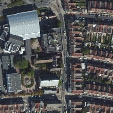
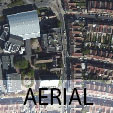
S7 toggle map changes (hovermap and jpg changes)

Changed region(s): [[0.0, 0.6903, 1.0, 1.0]]

diff --git a/src/main/webapp/resources/javascript/hoverMap.js b/src/main/webapp/resources/javascript/hoverMap.js
@@ -102,9 +102,33 @@ function hoverMap(details, postcode){
 			
 			// parent layer
 			var dynamicMSLayer = new esri.layers.ArcGISDynamicMapServiceLayer("http://services.arcgisonline.com/ArcGIS/rest/services/World_Street_Map/MapServer");      
-			map.addLayer(dynamicMSLayer);  
+			var dynamicMSLayer2 = new esri.layers.ArcGISDynamicMapServiceLayer("http://services.arcgisonline.com/ArcGIS/rest/services/World_Imagery/MapServer");      
+			currentLayer = "street"
+			map.addLayer(dynamicMSLayer);   
 			
 			map.setExtent(bbox.expand(1.1)); 
+
+			
+			 on(dom.byId("btnSwap"), "click", function () {  
+	             if (currentLayer == "street")
+	            	 {
+	            	 //changeLayer(dynamicMSLayer2)
+	            	 map.removeLayer(dynamicMSLayer);  
+	            	 map.addLayer(dynamicMSLayer2);
+	            	 //document.getElementById('btnSwap').text == "Street"
+	            	 $("#btnSwap").attr('src','resources/images/street.jpg');
+	            	 currentLayer = "topo"
+	            	 } 
+	             else
+	             {
+	            	 //changeLayer(dynamicMSLayer)
+	            	 map.removeLayer(dynamicMSLayer2);  
+	            	 map.addLayer(dynamicMSLayer);
+	            	 //document.getElementById('btnSwap').text == "Aerial"
+	            	 $("#btnSwap").attr('src','resources/images/aerial.jpg');
+	            	 currentLayer = "street"
+	            	 } 
+	         });  
 			
 			on(dynamicMSLayer, "load", function(){
 				  showLoading();			   

diff --git a/src/main/webapp/resources/javascript/highlightMap.js b/src/main/webapp/resources/javascript/highlightMap.js
@@ -106,14 +106,18 @@ function highlightMap(details, postcode){
 			 on(dom.byId("btnSwap"), "click", function () {  
 	             if (currentLayer == "street")
 	            	 {
-	            	 changeLayer(dynamicMSLayer2)
+	            	 //changeLayer(dynamicMSLayer2)
+	            	 map.removeLayer(dynamicMSLayer);  
+	            	 map.addLayer(dynamicMSLayer2);
 	            	 //document.getElementById('btnSwap').text == "Street"
 	            	 $("#btnSwap").attr('src','resources/images/street.jpg');
 	            	 currentLayer = "topo"
 	            	 } 
 	             else
 	             {
-	            	 changeLayer(dynamicMSLayer)
+	            	 //changeLayer(dynamicMSLayer)
+	            	 map.removeLayer(dynamicMSLayer2);  
+	            	 map.addLayer(dynamicMSLayer);
 	            	 //document.getElementById('btnSwap').text == "Aerial"
 	            	 $("#btnSwap").attr('src','resources/images/aerial.jpg');
 	            	 currentLayer = "street"
